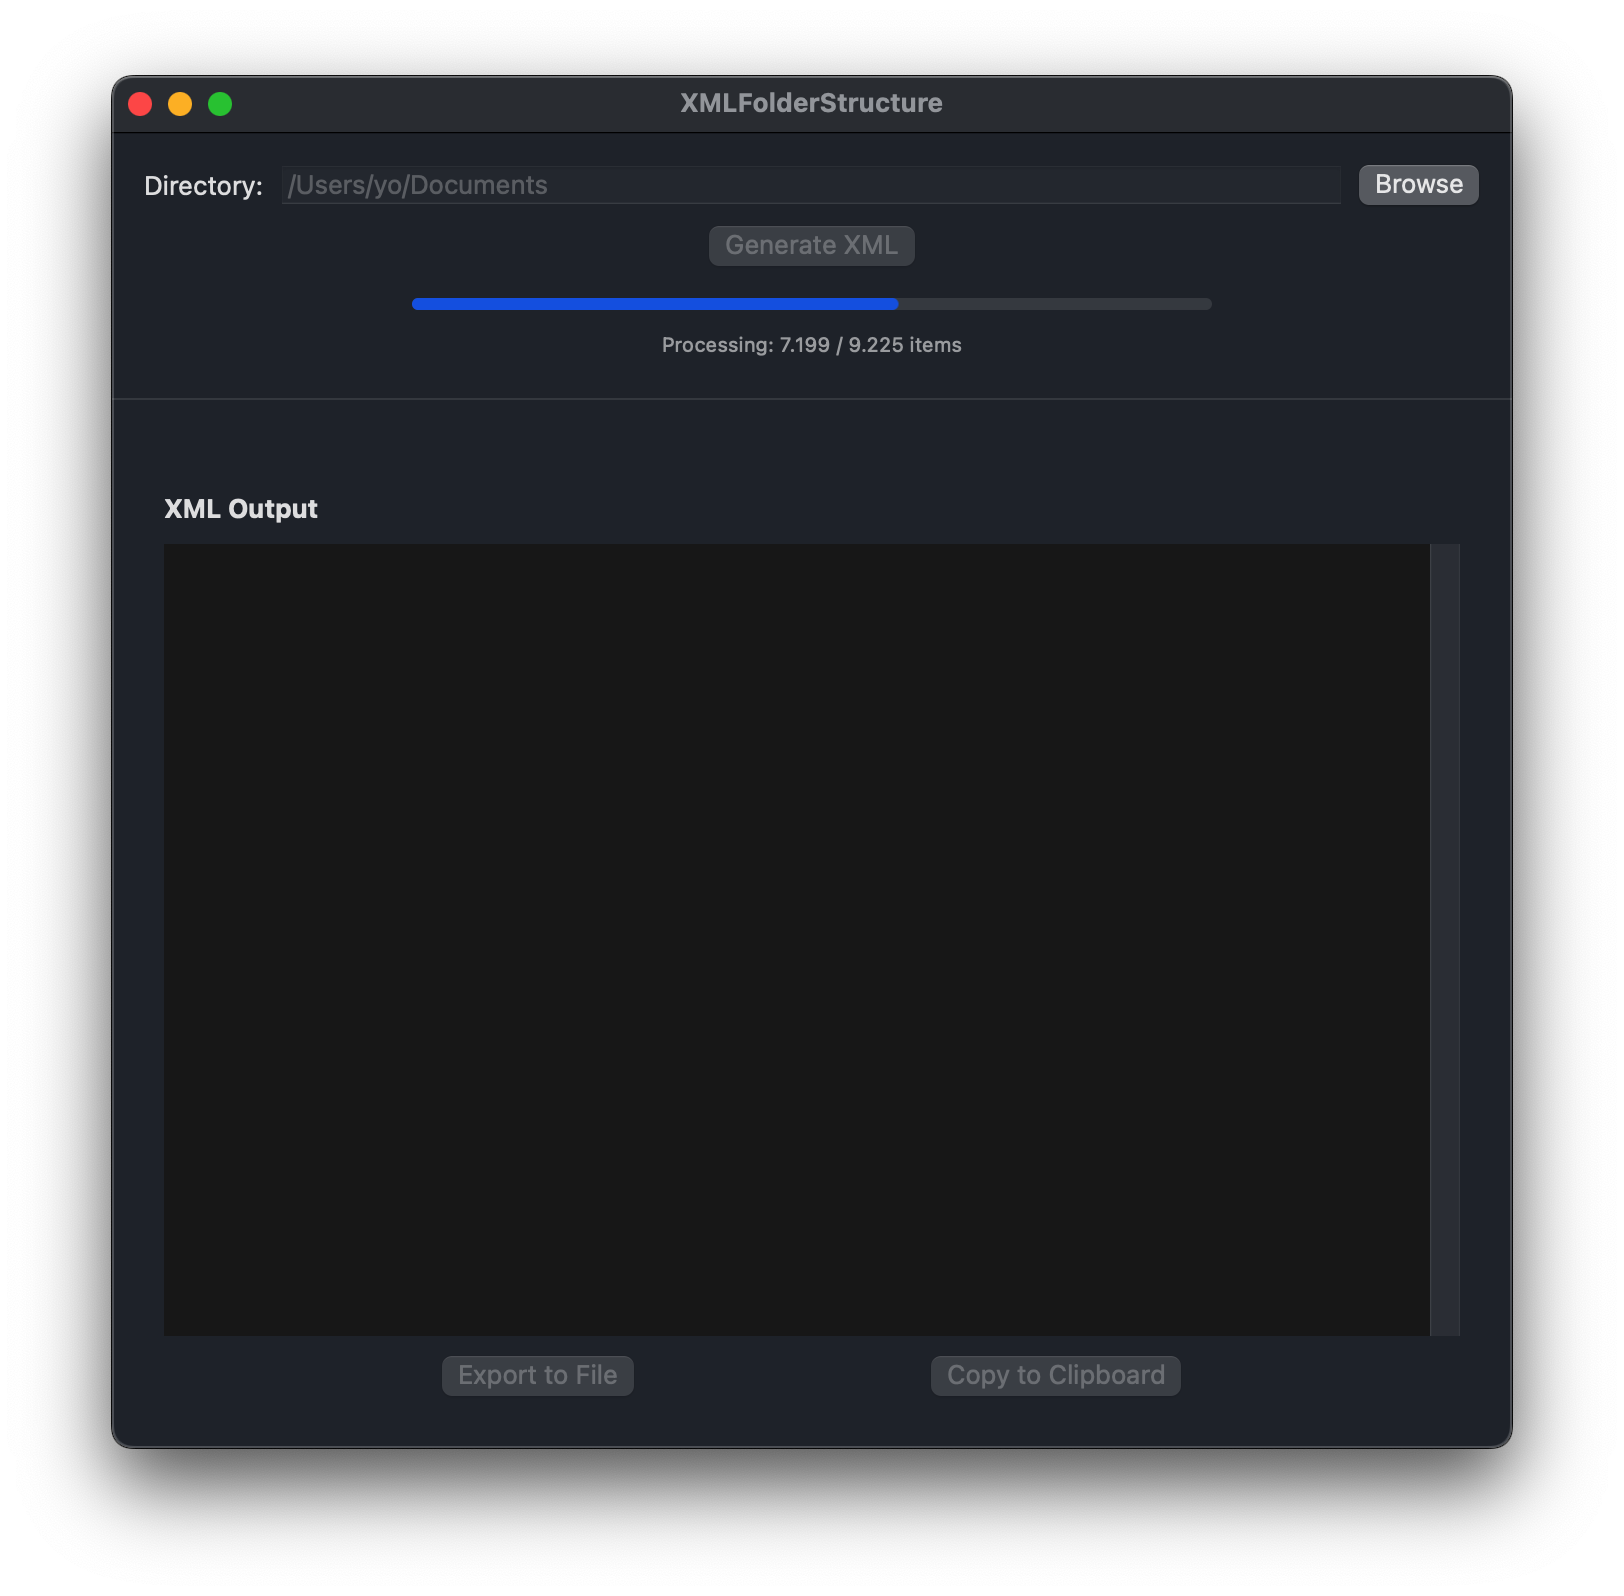
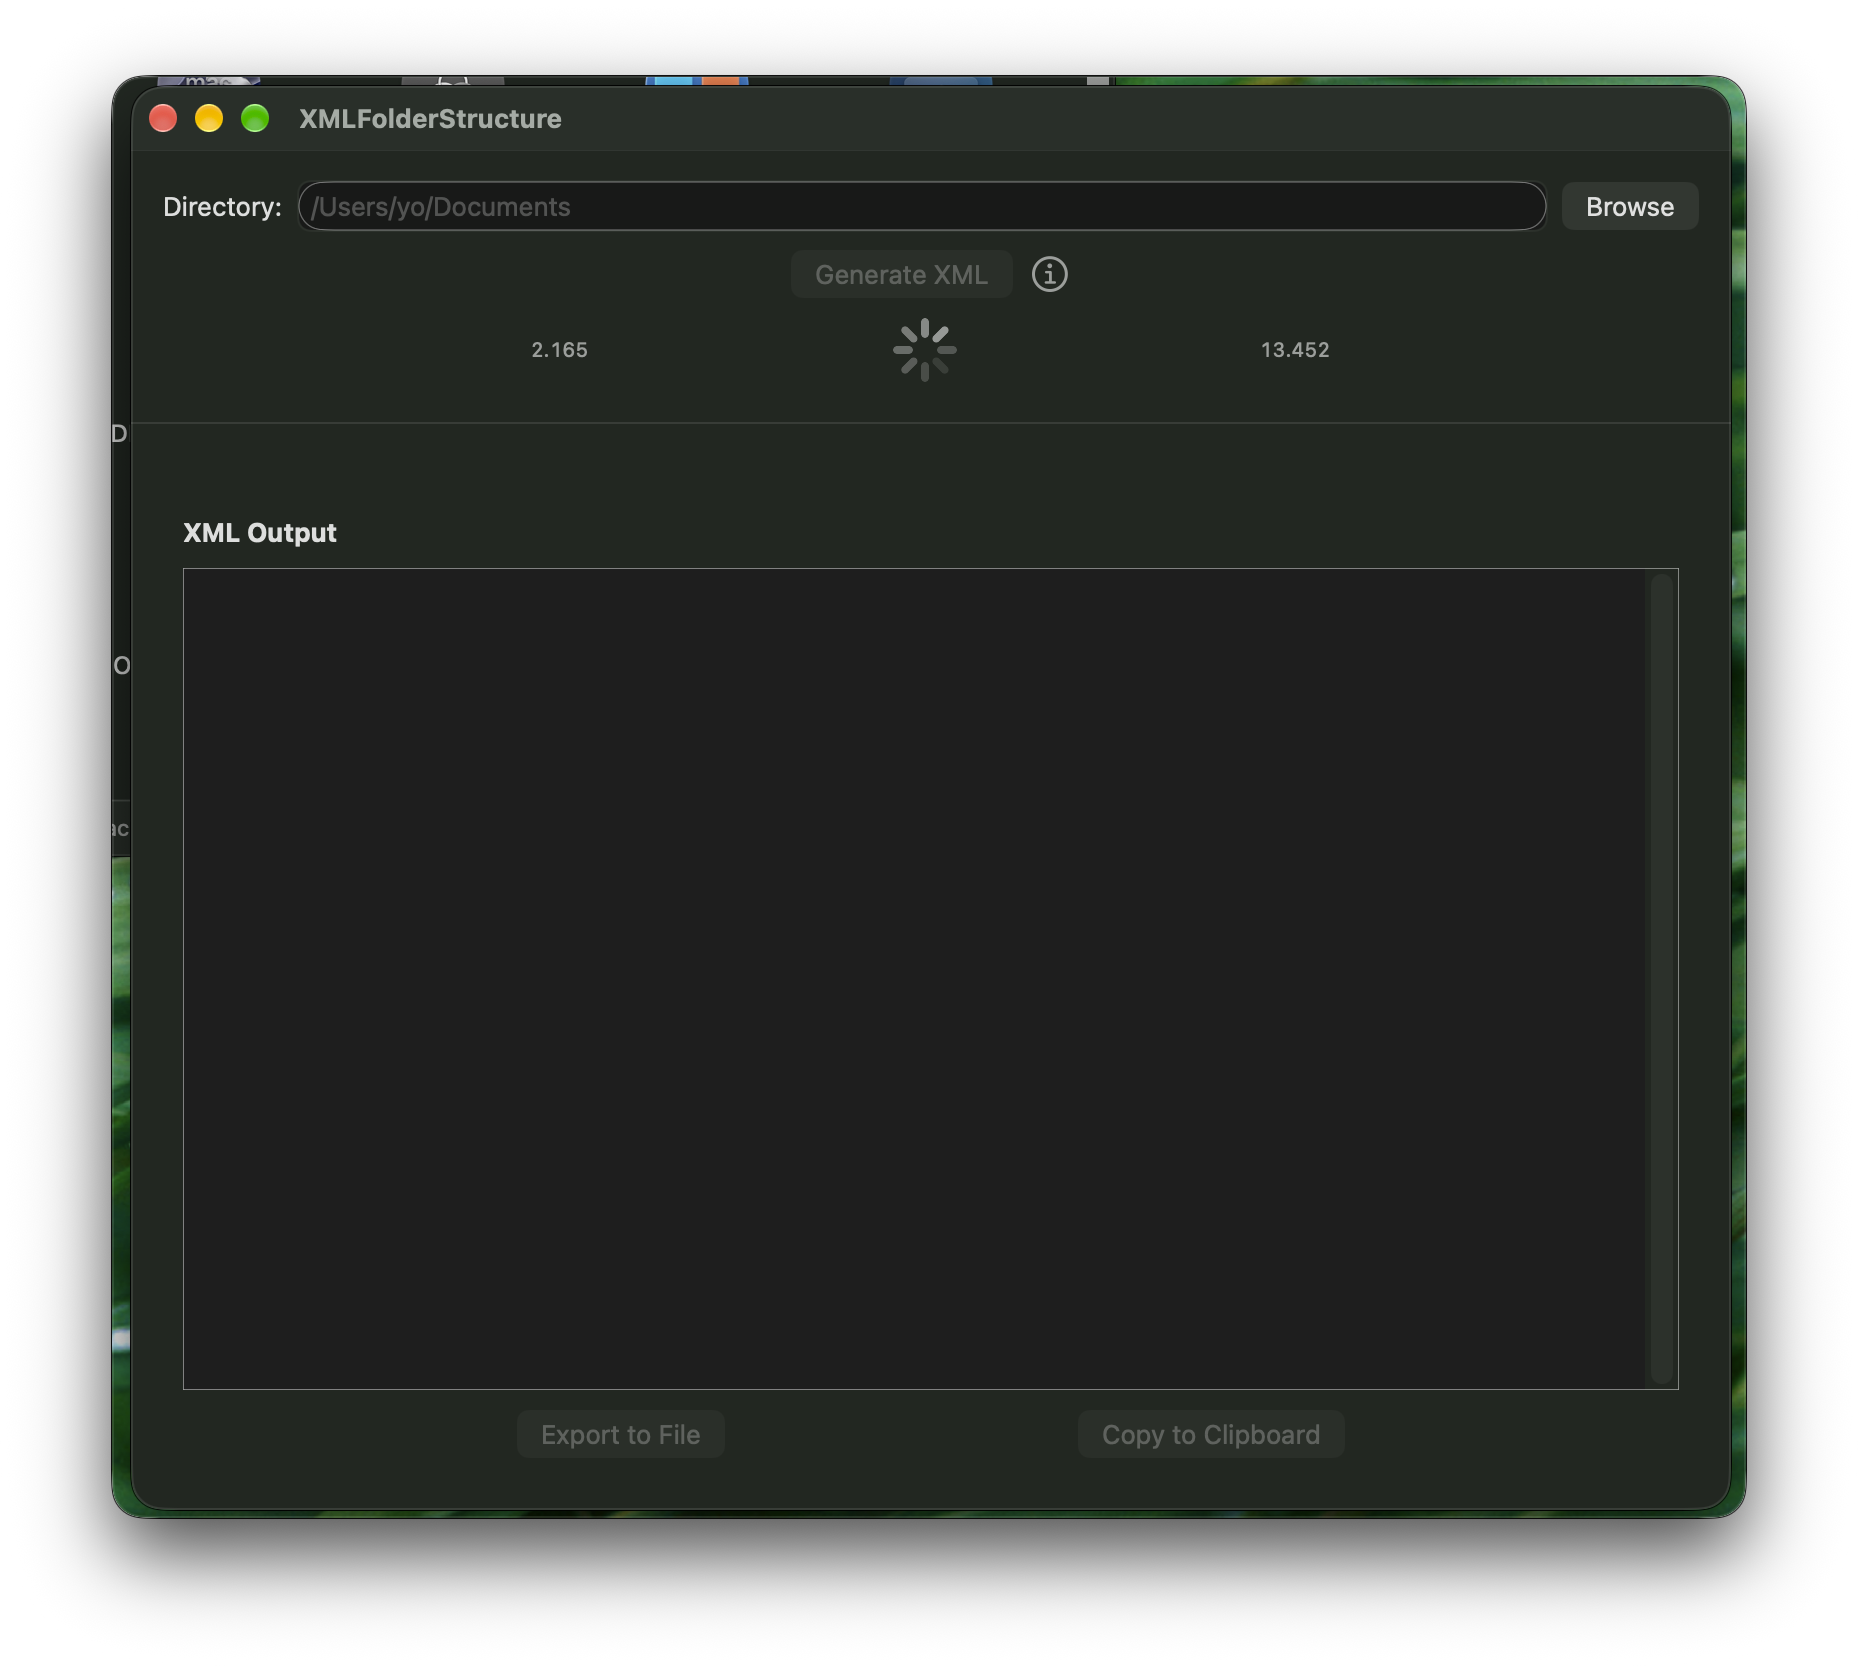
Update syntax highlighting and screenshots

Changed region(s): [[0.0308, 0.0307, 0.9544, 0.9211]]

diff --git a/README.md b/README.md
@@ -13,7 +13,7 @@ This macOS SwiftUI application retrieves the structure of a directory, including
 - **Progress Indicator**: Shows real-time progress when processing large directories with a spinning indicator between the processed and total item counts
 - **Recursive Traversal**: Includes all subdirectories and their files
 - **File Metadata**: Includes file size (in bytes, formatted with dot separators) and modification date for each file
-- **Syntax Highlighting**: XML output is displayed with color-coded syntax highlighting for better readability
+- **Syntax Highlighting**: XML output is displayed with color-coded syntax highlighting for better readability (for directories with >10.000 items)
 - **Proper Indentation**: XML output is properly indented for easy reading
 - **Export to File**: Save the generated XML to a file with a user-chosen name and location
 - **Copy to Clipboard**: Copy the XML output directly to your clipboard for easy pasting
@@ -70,7 +70,7 @@ XML syntax highlighting feature uses regex operations that can become extremely 
 1. Click the **Browse** button to select a folder
 2. The selected directory path will appear in the text field
 3. Click the **Generate XML** button to create the XML output
-4. The XML structure will appear in the text area below with color-coded syntax highlighting:
+4. The XML structure will appear in the text area below with color-coded syntax highlighting (for directories with >10.000 items):
    - **Green**: XML tag names (root, folder, file)
    - **Purple**: Attribute names (name, size, modified, text)
    - **Blue**: Attribute values (in quotes)
